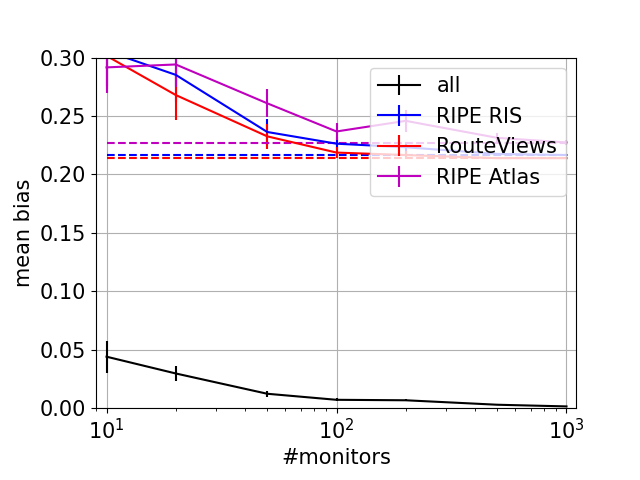
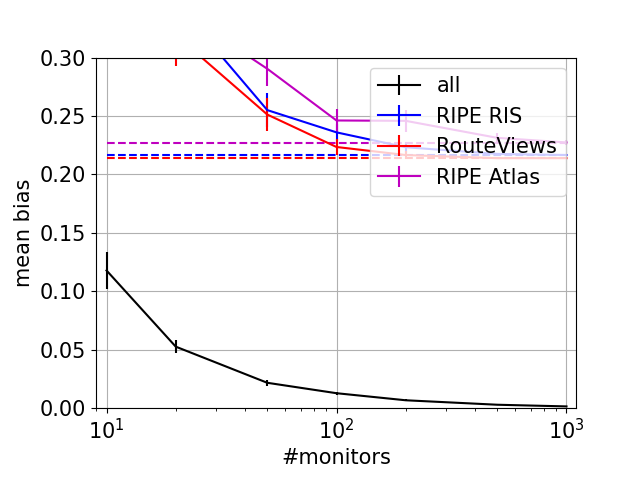
updated figures bias

diff --git a/use_cases/bias_in_monitoring_infrastructure/sampling_monitors_bias.py b/use_cases/bias_in_monitoring_infrastructure/sampling_monitors_bias.py
@@ -111,7 +111,7 @@ for en, m in enumerate(mons):
     mean_bias = []
     std_bias = []
     for i in NB_SAMPLES:
-        cols = [c for c in bias_df.columns if c.startswith('{}{}'.format(m.split(' (')[0],i))]
+        cols = [c for c in bias_df.columns if c.startswith('{}{}_'.format(m.split(' (')[0],i))]
         mean_bias.append( bias_df[cols].mean().mean() )
         std_bias.append( bias_df[cols].mean().std() )
     plt.errorbar(NB_SAMPLES, mean_bias, [h*i for i in std_bias], color=COLORS[en], label=m.split(' (')[0])
@@ -131,7 +131,7 @@ for ind in bias_df.index:
         mean_bias = []
         std_bias = []
         for i in NB_SAMPLES:
-            cols = [c for c in bias_df.columns if c.startswith('{}{}'.format(m.split(' (')[0],i))]
+            cols = [c for c in bias_df.columns if c.startswith('{}{}_'.format(m.split(' (')[0],i))]
             mean_bias.append( bias_df.loc[ind,cols].mean() )
             std_bias.append( bias_df.loc[ind,cols].std() )
         plt.errorbar(NB_SAMPLES, mean_bias, [h*i for i in std_bias], color=COLORS[en], label=m.split(' (')[0])
@@ -156,7 +156,7 @@ for fg,ind in FEATURE_GROUPS.items():
         mean_bias = []
         std_bias = []
         for i in NB_SAMPLES:
-            cols = [c for c in bias_df.columns if c.startswith('{}{}'.format(m.split(' (')[0],i))]
+            cols = [c for c in bias_df.columns if c.startswith('{}{}_'.format(m.split(' (')[0],i))]
             mean_bias.append( bias_df.loc[ind,cols].mean().mean() )
             std_bias.append( bias_df.loc[ind,cols].mean().std() )
         plt.errorbar(NB_SAMPLES, mean_bias, [h*i for i in std_bias], color=COLORS[en], label=m.split(' (')[0])
